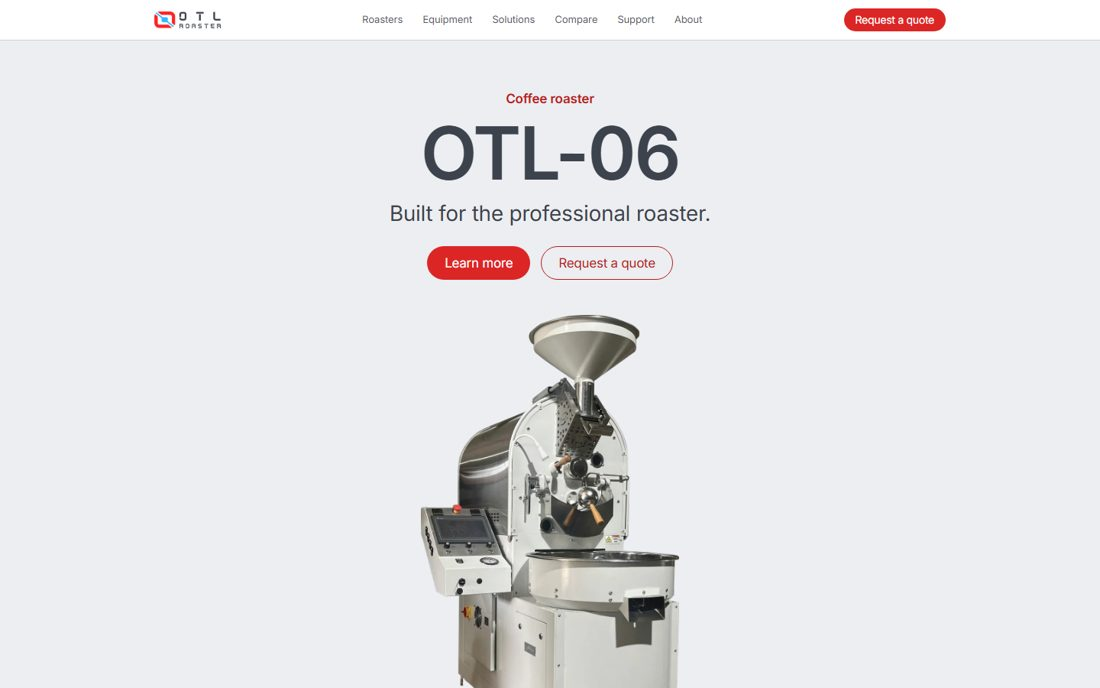
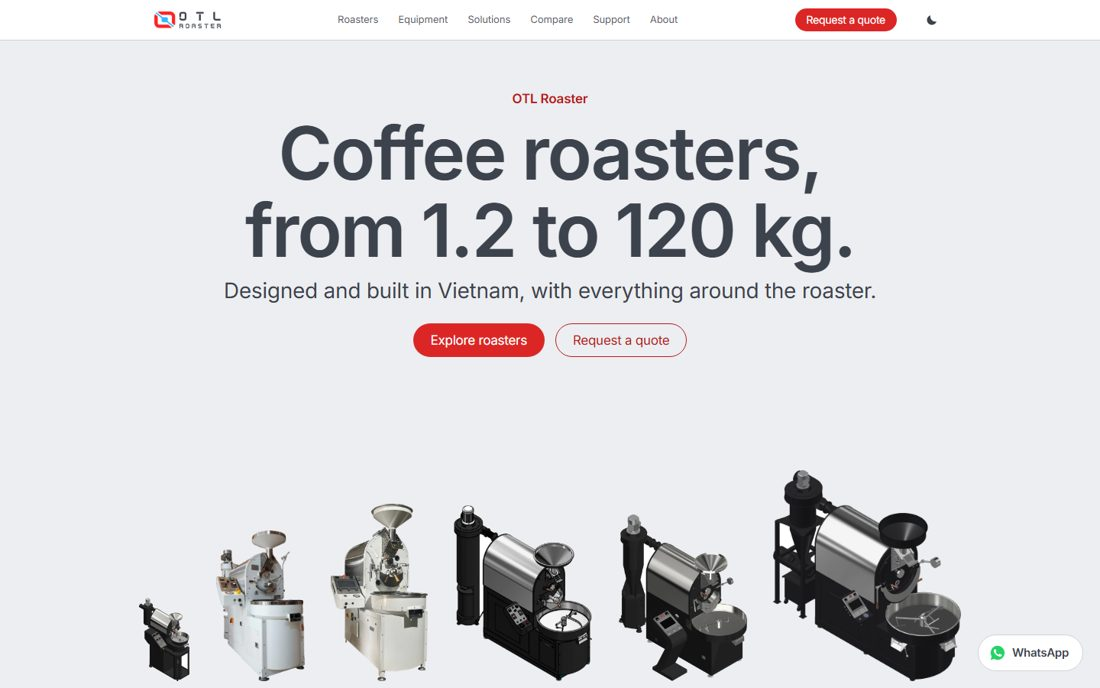
feat(apple): trang chu doi thu tu thong diep - OTL la ai + con so (1.2-120 kg, lam tai Viet Nam) va anh ca dong may o man dau, Why OTL 4 ly do, may noi bat OTL-06, bang chung (tu 2018, xuat EU/chau A, xuong that), lien he

diff --git a/apple/index.html b/apple/index.html
@@ -1,4 +1,4 @@
-<!doctype html><html lang="en"><head><meta charset="utf-8"><meta name="viewport" content="width=device-width,initial-scale=1"><title>OTL Roaster — Coffee roasters from 1.2 to 120 kg</title><meta name="description" content="Modern coffee roasters, destoners, afterburners and silos, designed and built by OTL in Vietnam."><meta name="color-scheme" content="light dark"><script>(function(){var d=document.documentElement,k='otl-theme',s=null,m=matchMedia('(prefers-color-scheme: dark)');try{s=localStorage.getItem(k)}catch(e){}function a(){d.dataset.theme=s||(m.matches?'dark':'light')}a();if(m.addEventListener)m.addEventListener('change',function(){if(!s)a()});window.OTLTheme={toggle:function(){s=d.dataset.theme==='dark'?'light':'dark';try{localStorage.setItem(k,s)}catch(e){}a();return s}}})()</script><link rel="preconnect" href="https://fonts.googleapis.com"><link rel="preconnect" href="https://fonts.gstatic.com" crossorigin><link href="https://fonts.googleapis.com/css2?family=Inter:wght@300;400;600&display=swap" rel="stylesheet"><link rel="stylesheet" href="site.css"><link rel="icon" href="img/icon.png"><script>window.IMGS={}</script><script src="motion.js"></script><script>OTLM.start({"preset": {"d": 24, "dur": 850, "ease": "cubic-bezier(.2,.7,.2,1)", "stagger": 70, "each": 30, "cover": "#f5f5f7"}, "rules": [[".rv", "rise", {"d": 26}], [".rv-up", "rise", {"d": 56, "dur": 1150}], [".rv-f", "fade", {"dur": 1100}], [".stats>div", "rise", {"d": 20}], [".fc", "rise", {"d": 24}], [".tile", "rise", {"d": 30}], [".step", "rise", {"d": 24}], [".strip", "rise", {"d": 18}], [".rail", "rise", {"d": 30}], [".grid3 .lc", "rise", {"d": 26}], [".cmp-col", "rise", {"d": 22}], [".uses li", "rise", {"d": 14}], [".sensors li", "rise", {"d": 14}]]})</script></head><body><header class="gnav"><div class="in">
+<!doctype html><html lang="en"><head><meta charset="utf-8"><meta name="viewport" content="width=device-width,initial-scale=1"><title>OTL Roaster — Coffee roasters from 1.2 to 120 kg, built in Vietnam</title><meta name="description" content="OTL designs and builds coffee roasters from 1.2 to 120 kg per batch in Vietnam, with destoners, silos and afterburners to complete the line."><meta name="color-scheme" content="light dark"><script>(function(){var d=document.documentElement,k='otl-theme',s=null,m=matchMedia('(prefers-color-scheme: dark)');try{s=localStorage.getItem(k)}catch(e){}function a(){d.dataset.theme=s||(m.matches?'dark':'light')}a();if(m.addEventListener)m.addEventListener('change',function(){if(!s)a()});window.OTLTheme={toggle:function(){s=d.dataset.theme==='dark'?'light':'dark';try{localStorage.setItem(k,s)}catch(e){}a();return s}}})()</script><link rel="preconnect" href="https://fonts.googleapis.com"><link rel="preconnect" href="https://fonts.gstatic.com" crossorigin><link href="https://fonts.googleapis.com/css2?family=Inter:wght@300;400;600&display=swap" rel="stylesheet"><link rel="stylesheet" href="site.css"><link rel="icon" href="img/icon.png"><script>window.IMGS={}</script><script src="motion.js"></script><script>OTLM.start({"preset": {"d": 24, "dur": 850, "ease": "cubic-bezier(.2,.7,.2,1)", "stagger": 70, "each": 30, "cover": "#f5f5f7"}, "rules": [[".rv", "rise", {"d": 26}], [".rv-up", "rise", {"d": 56, "dur": 1150}], [".rv-f", "fade", {"dur": 1100}], [".stats>div", "rise", {"d": 20}], [".fc", "rise", {"d": 24}], [".tile", "rise", {"d": 30}], [".step", "rise", {"d": 24}], [".strip", "rise", {"d": 18}], [".rail", "rise", {"d": 30}], [".grid3 .lc", "rise", {"d": 26}], [".cmp-col", "rise", {"d": 22}], [".uses li", "rise", {"d": 14}], [".sensors li", "rise", {"d": 14}]]})</script></head><body><header class="gnav"><div class="in">
 <a class="logo" href="index.html" aria-label="OTL Roaster home"><img class="lg-l" src="img/logo.png" alt="OTL Roaster" width="85" height="22"><img class="lg-d" src="img/logo_dark.png" alt="OTL Roaster" width="85" height="22"></a>
 <ul>
 <li><a class="top" href="roasters.html">Roasters</a><div class="fly"><div class="in"><div class="big"><h4>Explore roasters</h4>
@@ -21,15 +21,31 @@
 <a href="support.html">Support</a><a href="about.html">About</a><a href="quote.html">Request a quote</a>
 <button class="theme-t" type="button" data-theme-toggle>Dark mode</button></div>
 <main>
-<section class="hero bg-wash"><div class="wrap">
-<p class="eyebrow rv">Coffee roaster</p><h1 class="h-hero rv">OTL-06</h1><p class="sub rv">Built for the professional roaster.</p>
-<div class="btns rv"><a class="btn btn-f" href="otl-06.html">Learn more</a><a class="btn btn-o" href="quote.html?model=OTL-06">Request a quote</a></div>
-<div class="shot rv-up"><img src="img/ref.webp" class="wm" alt="OTL-06" decoding="async" fetchpriority="high"></div></div></section>
+<section class="hero bg-wash pb"><div class="wrap">
+<p class="eyebrow rv">OTL Roaster</p>
+<h1 class="h-hero rv">Coffee roasters,<br>from 1.2 to 120&nbsp;kg.</h1>
+<p class="sub rv">Designed and built in Vietnam, with everything around the roaster.</p>
+<div class="btns rv"><a class="btn btn-f" href="roasters.html">Explore roasters</a><a class="btn btn-o" href="quote.html">Request a quote</a></div>
+</div><div class="family rv-up"><figure style="--h:142"><a href="otl-1-2.html"><img src="img/a51.webp" alt="OTL-1.2" decoding="async" fetchpriority="high"></a><figcaption>OTL-1.2</figcaption></figure><figure style="--h:257"><a href="otl-03.html"><img src="img/c240.webp" class="wm" alt="OTL-03" decoding="async" fetchpriority="high"></a><figcaption>OTL-03</figcaption></figure><figure style="--h:303"><a href="otl-06.html"><img src="img/ref.webp" class="wm" alt="OTL-06" decoding="async" fetchpriority="high"></a><figcaption>OTL-06</figcaption></figure><figure class="hm" style="--h:300"><a href="otl-12.html"><img src="img/a144.webp" alt="OTL-12" decoding="async" fetchpriority="high"></a><figcaption>OTL-12</figcaption></figure><figure class="hm" style="--h:285"><a href="otl-15.html"><img src="img/a107.webp" alt="OTL-15" decoding="async" fetchpriority="high"></a><figcaption>OTL-15</figcaption></figure><figure style="--h:360"><a href="otl-30.html"><img src="img/a118.webp" alt="OTL-30" decoding="async" fetchpriority="high"></a><figcaption>OTL-30</figcaption></figure></div></section>
 
-<section class="sec bg-w center"><div class="wrap">
-<h2 class="h-l rv">Roasters for every batch.</h2><p class="lead rv" style="margin-top:12px">From 1.2 kg sample roasting to 120 kg full-circulation systems.</p>
-</div><div class="wide" style="margin-top:44px"><div class="strip" role="list"><a href="otl-1-2.html"><div class="ic"><img src="img/a51_t.webp" alt="OTL-1.2" decoding="async" loading="lazy"></div><span>OTL-1.2</span></a><a href="otl-03.html"><div class="ic"><img src="img/c240_t.webp" class="wm" alt="OTL-03" decoding="async" loading="lazy"></div><span>OTL-03</span></a><a href="otl-06.html"><div class="ic"><img src="img/ref_t.webp" class="wm" alt="OTL-06" decoding="async" loading="lazy"></div><span>OTL-06<em>Flagship</em></span></a><a href="otl-12.html"><div class="ic"><img src="img/a144_t.webp" alt="OTL-12" decoding="async" loading="lazy"></div><span>OTL-12</span></a><a href="otl-15.html"><div class="ic"><img src="img/a107_t.webp" alt="OTL-15" decoding="async" loading="lazy"></div><span>OTL-15</span></a><a href="otl-30.html"><div class="ic"><img src="img/a118_t.webp" alt="OTL-30" decoding="async" loading="lazy"></div><span>OTL-30</span></a><a href="otl-60.html"><div class="ic"><svg viewBox="0 0 120 80" width="114" height="76" fill="none" stroke="#86868b" stroke-width="2" stroke-linejoin="round" stroke-linecap="round" aria-hidden="true"><rect x="12" y="30" width="46" height="30" rx="5"/><circle cx="35" cy="45" r="9"/><path d="M58 40h14V16h10"/><path d="M82 8h20v22l-10 13-10-13z"/><path d="M92 43v19"/><path d="M6 66h108"/><path d="M20 60v6M50 60v6M86 62v4M98 62v4"/></svg></div><span>OTL-60<em>Full circulation</em></span></a><a href="otl-120.html"><div class="ic"><svg viewBox="0 0 120 80" width="114" height="76" fill="none" stroke="#86868b" stroke-width="2" stroke-linejoin="round" stroke-linecap="round" aria-hidden="true"><rect x="12" y="30" width="46" height="30" rx="5"/><circle cx="35" cy="45" r="9"/><path d="M58 40h14V16h10"/><path d="M82 8h20v22l-10 13-10-13z"/><path d="M92 43v19"/><path d="M6 66h108"/><path d="M20 60v6M50 60v6M86 62v4M98 62v4"/></svg></div><span>OTL-120<em>Full circulation</em></span></a><a href="destoner.html"><div class="ic"><img src="img/a179_t.webp" alt="OD Destoner" decoding="async" loading="lazy"></div><span>Destoner</span></a><a href="afterburner.html"><div class="ic"><img src="img/a182_t.webp" alt="AB Afterburner" decoding="async" loading="lazy"></div><span>Afterburner</span></a><a href="silo.html"><div class="ic"><img src="img/a73_t.webp" alt="OTL-Silo" decoding="async" loading="lazy"></div><span>Silo</span></a></div></div>
-<div class="btns c rv" style="margin-top:30px"><a class="lnk" href="roasters.html">Explore all roasters</a><a class="lnk" href="compare.html">Compare models</a></div></section>
+<section class="sec bg-w center tight"><div class="wrap">
+<h2 class="h-l rv">Find your size.</h2><p class="lead rv" style="margin-top:12px">Eight roasters, plus the destoner, afterburner and silo to complete the line.</p>
+</div><div class="wide" style="margin-top:40px"><div class="strip" role="list"><a href="otl-1-2.html"><div class="ic"><img src="img/a51_t.webp" alt="OTL-1.2" decoding="async" loading="lazy"></div><span>OTL-1.2</span></a><a href="otl-03.html"><div class="ic"><img src="img/c240_t.webp" class="wm" alt="OTL-03" decoding="async" loading="lazy"></div><span>OTL-03</span></a><a href="otl-06.html"><div class="ic"><img src="img/ref_t.webp" class="wm" alt="OTL-06" decoding="async" loading="lazy"></div><span>OTL-06<em>Flagship</em></span></a><a href="otl-12.html"><div class="ic"><img src="img/a144_t.webp" alt="OTL-12" decoding="async" loading="lazy"></div><span>OTL-12</span></a><a href="otl-15.html"><div class="ic"><img src="img/a107_t.webp" alt="OTL-15" decoding="async" loading="lazy"></div><span>OTL-15</span></a><a href="otl-30.html"><div class="ic"><img src="img/a118_t.webp" alt="OTL-30" decoding="async" loading="lazy"></div><span>OTL-30</span></a><a href="otl-60.html"><div class="ic"><svg viewBox="0 0 120 80" width="114" height="76" fill="none" stroke="#86868b" stroke-width="2" stroke-linejoin="round" stroke-linecap="round" aria-hidden="true"><rect x="12" y="30" width="46" height="30" rx="5"/><circle cx="35" cy="45" r="9"/><path d="M58 40h14V16h10"/><path d="M82 8h20v22l-10 13-10-13z"/><path d="M92 43v19"/><path d="M6 66h108"/><path d="M20 60v6M50 60v6M86 62v4M98 62v4"/></svg></div><span>OTL-60<em>Full circulation</em></span></a><a href="otl-120.html"><div class="ic"><svg viewBox="0 0 120 80" width="114" height="76" fill="none" stroke="#86868b" stroke-width="2" stroke-linejoin="round" stroke-linecap="round" aria-hidden="true"><rect x="12" y="30" width="46" height="30" rx="5"/><circle cx="35" cy="45" r="9"/><path d="M58 40h14V16h10"/><path d="M82 8h20v22l-10 13-10-13z"/><path d="M92 43v19"/><path d="M6 66h108"/><path d="M20 60v6M50 60v6M86 62v4M98 62v4"/></svg></div><span>OTL-120<em>Full circulation</em></span></a><a href="destoner.html"><div class="ic"><img src="img/a179_t.webp" alt="OD Destoner" decoding="async" loading="lazy"></div><span>Destoner</span></a><a href="afterburner.html"><div class="ic"><img src="img/a182_t.webp" alt="AB Afterburner" decoding="async" loading="lazy"></div><span>Afterburner</span></a><a href="silo.html"><div class="ic"><img src="img/a73_t.webp" alt="OTL-Silo" decoding="async" loading="lazy"></div><span>Silo</span></a></div></div>
+<div class="btns c rv" style="margin-top:28px"><a class="lnk" href="roasters.html">Explore all roasters</a><a class="lnk" href="compare.html">Compare models</a></div></section>
+
+<section class="sec bg-c"><div class="wrap">
+<h2 class="h-xl rv center">Why OTL.</h2>
+<div class="feats">
+<div class="fc"><p class="n">One maker</p><h3>The whole line, from one team.</h3><p>Roasters, destoners, silos and afterburners, designed to work together and installed together.</p><p style="margin-top:14px"><a class="lnk" href="solutions.html">Industrial solutions</a></p></div>
+<div class="fc"><p class="n">Efficiency</p><h3>Up to 30% less energy.</h3><p>Full-circulation airflow on the OTL-60 and OTL-120 recycles exhaust air instead of wasting it.</p><p style="margin-top:14px"><a class="lnk" href="solutions.html#circulation">Full circulation</a></p></div>
+<div class="fc"><p class="n">Support</p><h3>Installed, trained, supported.</h3><p>On-site installation, hands-on training, a technical hotline and remote diagnosis.</p><p style="margin-top:14px"><a class="lnk" href="support.html">Support and service</a></p></div>
+<div class="fc"><p class="n">Built here</p><h3>Made in Vietnam since 2018.</h3><p>Designed and manufactured at our own factory, for roasters at home and in the EU and Asia.</p><p style="margin-top:14px"><a class="lnk" href="about.html">About OTL</a></p></div>
+</div></div></section>
+
+<section class="hero bg-wash pb"><div class="wrap">
+<p class="eyebrow rv">Flagship</p><h2 class="h-hero rv">OTL-06</h2><p class="sub rv">Built for the professional roaster.</p>
+<div class="btns rv"><a class="btn btn-f" href="otl-06.html">Learn more</a><a class="btn btn-o" href="quote.html?model=OTL-06">Request a quote</a></div>
+<div class="shot rv-up"><img src="img/ref.webp" class="wm" alt="OTL-06" decoding="async" loading="lazy"></div></div></section>
 
 <div class="tiles">
 <div class="tile dk"><h2 class="h-l">OTL-30</h2><p class="sub">Industrial output, fully automated.</p>
@@ -102,11 +118,17 @@
 <div class="art ph"><img src="img/a175.jpg" alt="OTL technician setting up a roaster" decoding="async" loading="lazy"></div></div>
 </div>
 
-<section class="sec bg-w center" style="padding-bottom:0"><div class="wrap">
-<h2 class="h-xl rv">Designed and built in Vietnam.</h2>
-<p class="lead measure rv" style="margin-top:14px">OTL has designed and manufactured coffee roasters since 2018, from 1.2 kg to 120 kg per batch, for customers at home and export to the EU and Asia.</p>
-<div class="btns c rv" style="margin-top:20px"><a class="lnk" href="about.html">About OTL</a></div></div>
-<div class="banner rv-f"><img src="img/a168.jpg" alt="Welding a roaster drum at the OTL factory" decoding="async" loading="lazy"></div></section>
+<section class="sec bg-w" style="padding-bottom:0"><div class="wrap center">
+<h2 class="h-xl rv">Built in Vietnam.<br>Roasting worldwide.</h2>
+<p class="lead measure rv" style="margin-top:14px">OTL grew from the O Tesla brand and has designed and manufactured coffee roasters at its own factory since 2018.</p></div>
+<div class="wrap"><div class="stats">
+<div><b>2018</b><span>building roasters since</span></div><div><b>1.2–120<small>kg</small></b><span>per batch, eight models</span></div>
+<div><b>4</b><span>product families</span></div><div><b>EU · Asia</b><span>export markets</span></div></div></div>
+<div class="banner rv-f"><img src="img/a168.jpg" alt="Welding a roaster drum at the OTL factory" decoding="async" loading="lazy"></div>
+<div class="wrap"><div class="duo">
+<figure class="rv"><img src="img/a62.jpg" alt="OTL-1.2 in a café" decoding="async" loading="lazy"><figcaption class="cap">OTL-1.2 in a café.</figcaption></figure>
+<figure class="rv"><img src="img/a106.jpg" alt="OTL-15 in a café roastery" decoding="async" loading="lazy"><figcaption class="cap">OTL-15 in a café roastery.</figcaption></figure></div>
+<div class="btns c rv" style="margin:30px 0 110px"><a class="lnk" href="about.html">About OTL</a></div></div></section>
 <section class="sec bg-c" id="contact"><div class="wrap contact">
 <div><h2 class="h-xl rv">Talk to OTL.</h2>
 <p class="lead rv" style="margin-top:14px">Questions about a roaster, a quote or service? Leave your details and our team will get back to you.</p>

diff --git a/_src/apple/site.css b/_src/apple/site.css
@@ -355,3 +355,14 @@ h1,h2,h3,h4,p{margin:0}
 .foot{padding-bottom:84px}
 @media (max-width:834px){.contact{grid-template-columns:1fr;gap:34px}.form.ct-f{padding:26px 20px}}
 @media (max-width:480px){.wa{width:52px;height:52px;padding:0;justify-content:center;right:16px;bottom:16px}.wa span{display:none}.wa svg{width:26px;height:26px}}
+
+/* ---------- ảnh "cả nhà" trang chủ: máy đứng cạnh nhau, cao theo tỉ lệ thật ---------- */
+.family{--k:1;display:flex;align-items:flex-end;justify-content:center;gap:clamp(8px,2.4vw,36px);max-width:1120px;margin:56px auto 0;padding:28px 22px 24px}
+.family figure{margin:0;flex:0 1 auto;min-width:0;display:flex;flex-direction:column;align-items:center;gap:12px}
+.family img{height:calc(var(--h) * var(--k) * 1px);width:auto;max-width:100%;object-fit:contain;object-position:bottom}
+.family figcaption{font-size:12px;color:var(--ink2)}
+:is([data-theme="dark"],.dk) .family{background:var(--plate);border-radius:28px;max-width:1076px}
+:is([data-theme="dark"],.dk) .family figcaption{color:#3d434d}
+@media (max-width:834px){.family{--k:.66}.family .hm{display:none}}
+@media (max-width:480px){.family{--k:.46;gap:6px;padding:20px 12px 18px;margin-left:16px;margin-right:16px}}
+.family{margin-top:36px}.family figcaption{white-space:nowrap}@media (max-width:480px){.family figcaption{font-size:11px}}

diff --git a/apple/site.css b/apple/site.css
@@ -355,3 +355,14 @@ h1,h2,h3,h4,p{margin:0}
 .foot{padding-bottom:84px}
 @media (max-width:834px){.contact{grid-template-columns:1fr;gap:34px}.form.ct-f{padding:26px 20px}}
 @media (max-width:480px){.wa{width:52px;height:52px;padding:0;justify-content:center;right:16px;bottom:16px}.wa span{display:none}.wa svg{width:26px;height:26px}}
+
+/* ---------- ảnh "cả nhà" trang chủ: máy đứng cạnh nhau, cao theo tỉ lệ thật ---------- */
+.family{--k:1;display:flex;align-items:flex-end;justify-content:center;gap:clamp(8px,2.4vw,36px);max-width:1120px;margin:56px auto 0;padding:28px 22px 24px}
+.family figure{margin:0;flex:0 1 auto;min-width:0;display:flex;flex-direction:column;align-items:center;gap:12px}
+.family img{height:calc(var(--h) * var(--k) * 1px);width:auto;max-width:100%;object-fit:contain;object-position:bottom}
+.family figcaption{font-size:12px;color:var(--ink2)}
+:is([data-theme="dark"],.dk) .family{background:var(--plate);border-radius:28px;max-width:1076px}
+:is([data-theme="dark"],.dk) .family figcaption{color:#3d434d}
+@media (max-width:834px){.family{--k:.66}.family .hm{display:none}}
+@media (max-width:480px){.family{--k:.46;gap:6px;padding:20px 12px 18px;margin-left:16px;margin-right:16px}}
+.family{margin-top:36px}.family figcaption{white-space:nowrap}@media (max-width:480px){.family figcaption{font-size:11px}}

diff --git a/_src/apple/build.py b/_src/apple/build.py
@@ -424,19 +424,51 @@ def gallery(items):
             f'<div class="pg-t">{th}</div></div>')
 
 # ======================================================================= trang
+FAMILY = [  # (chỉ số trong ROASTERS, chiều cao thật mm theo otlpro.com, ẩn trên điện thoại?)
+    (0, 950, False), (1, 1715, False), (2, 2020, False), (3, 2000, True), (4, 1900, True), (5, 2400, False)]
+
+def family_row():
+    """Ảnh "cả nhà" kiểu Apple: các máy đứng cạnh nhau, cao theo tỉ lệ chiều cao thật (OTL-30 = 360 px)."""
+    out = []
+    for i, mm, hide in FAMILY:
+        r = ROASTERS[i]
+        hm = ' class="hm"' if hide else ""
+        out.append(f'<figure{hm} style="--h:{round(360 * mm / 2400)}">'
+                   f'<a href="{r["slug"]}.html">{im_tag(r["hero"], r["mode"], r["name"], lazy=False)}</a>'
+                   f'<figcaption>{r["name"]}</figcaption></figure>')
+    return f'<div class="family rv-up">{"".join(out)}</div>'
+
 def page_home():
+    """Thứ tự thông điệp (23/10): 1 OTL là ai + làm gì, có con số · 2 cả dòng máy · 3 lý do chọn OTL · máy nổi bật ·
+    4 bằng chứng (từ 2018, xuất EU/châu Á, xưởng thật) · 5 hỗ trợ · 6 liên hệ. Chỉ dùng thông tin có trên otlpro.com."""
     six = ROASTERS[2]; thirty = ROASTERS[5]
     body = f'''{nav()}
 <main>
-<section class="hero bg-wash"><div class="wrap">
-<p class="eyebrow rv">Coffee roaster</p><h1 class="h-hero rv">OTL-06</h1><p class="sub rv">{six["tagline"]}</p>
-<div class="btns rv"><a class="btn btn-f" href="otl-06.html">Learn more</a><a class="btn btn-o" href="quote.html?model=OTL-06">Request a quote</a></div>
-<div class="shot rv-up">{hero_img(six)}</div></div></section>
+<section class="hero bg-wash pb"><div class="wrap">
+<p class="eyebrow rv">OTL Roaster</p>
+<h1 class="h-hero rv">Coffee roasters,<br>from 1.2 to 120&nbsp;kg.</h1>
+<p class="sub rv">Designed and built in Vietnam, with everything around the roaster.</p>
+<div class="btns rv"><a class="btn btn-f" href="roasters.html">Explore roasters</a><a class="btn btn-o" href="quote.html">Request a quote</a></div>
+</div>{family_row()}</section>
 
-<section class="sec bg-w center"><div class="wrap">
-<h2 class="h-l rv">Roasters for every batch.</h2><p class="lead rv" style="margin-top:12px">From 1.2 kg sample roasting to 120 kg full-circulation systems.</p>
-</div><div class="wide" style="margin-top:44px">{strip(roaster_items() + equip_items())}</div>
-<div class="btns c rv" style="margin-top:30px"><a class="lnk" href="roasters.html">Explore all roasters</a><a class="lnk" href="compare.html">Compare models</a></div></section>
+<section class="sec bg-w center tight"><div class="wrap">
+<h2 class="h-l rv">Find your size.</h2><p class="lead rv" style="margin-top:12px">Eight roasters, plus the destoner, afterburner and silo to complete the line.</p>
+</div><div class="wide" style="margin-top:40px">{strip(roaster_items() + equip_items())}</div>
+<div class="btns c rv" style="margin-top:28px"><a class="lnk" href="roasters.html">Explore all roasters</a><a class="lnk" href="compare.html">Compare models</a></div></section>
+
+<section class="sec bg-c"><div class="wrap">
+<h2 class="h-xl rv center">Why OTL.</h2>
+<div class="feats">
+<div class="fc"><p class="n">One maker</p><h3>The whole line, from one team.</h3><p>Roasters, destoners, silos and afterburners, designed to work together and installed together.</p><p style="margin-top:14px"><a class="lnk" href="solutions.html">Industrial solutions</a></p></div>
+<div class="fc"><p class="n">Efficiency</p><h3>Up to 30% less energy.</h3><p>Full-circulation airflow on the OTL-60 and OTL-120 recycles exhaust air instead of wasting it.</p><p style="margin-top:14px"><a class="lnk" href="solutions.html#circulation">Full circulation</a></p></div>
+<div class="fc"><p class="n">Support</p><h3>Installed, trained, supported.</h3><p>On-site installation, hands-on training, a technical hotline and remote diagnosis.</p><p style="margin-top:14px"><a class="lnk" href="support.html">Support and service</a></p></div>
+<div class="fc"><p class="n">Built here</p><h3>Made in Vietnam since 2018.</h3><p>Designed and manufactured at our own factory, for roasters at home and in the EU and Asia.</p><p style="margin-top:14px"><a class="lnk" href="about.html">About OTL</a></p></div>
+</div></div></section>
+
+<section class="hero bg-wash pb"><div class="wrap">
+<p class="eyebrow rv">Flagship</p><h2 class="h-hero rv">OTL-06</h2><p class="sub rv">{six["tagline"]}</p>
+<div class="btns rv"><a class="btn btn-f" href="otl-06.html">Learn more</a><a class="btn btn-o" href="quote.html?model=OTL-06">Request a quote</a></div>
+<div class="shot rv-up">{hero_img(six, lazy=True)}</div></div></section>
 
 <div class="tiles">
 <div class="tile dk"><h2 class="h-l">OTL-30</h2><p class="sub">{thirty["tagline"]}</p>
@@ -453,14 +485,20 @@ def page_home():
 <div class="art ph">{im_tag("a175", "p", "OTL technician setting up a roaster")}</div></div>
 </div>
 
-<section class="sec bg-w center" style="padding-bottom:0"><div class="wrap">
-<h2 class="h-xl rv">Designed and built in Vietnam.</h2>
-<p class="lead measure rv" style="margin-top:14px">OTL has designed and manufactured coffee roasters since 2018, from 1.2 kg to 120 kg per batch, for customers at home and export to the EU and Asia.</p>
-<div class="btns c rv" style="margin-top:20px"><a class="lnk" href="about.html">About OTL</a></div></div>
-<div class="banner rv-f">{im_tag("a168", "p", "Welding a roaster drum at the OTL factory")}</div></section>
+<section class="sec bg-w" style="padding-bottom:0"><div class="wrap center">
+<h2 class="h-xl rv">Built in Vietnam.<br>Roasting worldwide.</h2>
+<p class="lead measure rv" style="margin-top:14px">OTL grew from the O Tesla brand and has designed and manufactured coffee roasters at its own factory since 2018.</p></div>
+<div class="wrap"><div class="stats">
+<div><b>2018</b><span>building roasters since</span></div><div><b>1.2–120<small>kg</small></b><span>per batch, eight models</span></div>
+<div><b>4</b><span>product families</span></div><div><b>EU · Asia</b><span>export markets</span></div></div></div>
+<div class="banner rv-f">{im_tag("a168", "p", "Welding a roaster drum at the OTL factory")}</div>
+<div class="wrap"><div class="duo">
+<figure class="rv">{im_tag("a62", "p", "OTL-1.2 in a café")}<figcaption class="cap">OTL-1.2 in a café.</figcaption></figure>
+<figure class="rv">{im_tag("a106", "p", "OTL-15 in a café roastery")}<figcaption class="cap">OTL-15 in a café roastery.</figcaption></figure></div>
+<div class="btns c rv" style="margin:30px 0 110px"><a class="lnk" href="about.html">About OTL</a></div></div></section>
 {CONTACT}
 </main>{foot()}'''
-    return head("OTL Roaster — Coffee roasters from 1.2 to 120 kg", "Modern coffee roasters, destoners, afterburners and silos, designed and built by OTL in Vietnam.") + body
+    return head("OTL Roaster — Coffee roasters from 1.2 to 120 kg, built in Vietnam", "OTL designs and builds coffee roasters from 1.2 to 120 kg per batch in Vietnam, with destoners, silos and afterburners to complete the line.") + body
 
 def page_roasters():
     rail = "".join(lc(r) for r in ROASTERS)
